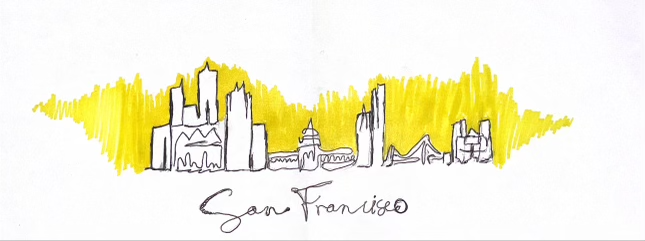
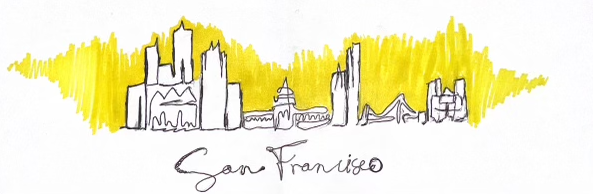
landing page

diff --git a/sf-future/src/Pages/Landing.jsx b/sf-future/src/Pages/Landing.jsx
@@ -1,17 +1,25 @@
 import { Link } from "react-router-dom";
+import skyline from '../assets/SF-skyline.png'
 
 function Landing(){
 
     return(
     <div class = "flex flex-col items-center justify-center h-screen">
-        <h1 className="text-3xl font-bold">
+        <div className="text-5xl font-cursive">
         Looking To The Horizon
-        </h1>
-        <p className="text-lg mt-10">
-        Clouds of worry, glimmers of hope in downtown San Francisco
+        </div>
+        <p className="text-m mt-10">
+          by <a className="hover:text-blue-500" target="_blank" href="https://jerryzhou11.github.io/portfolio/#/">Jerry Zhou</a>,&nbsp;
+          <a className="hover:text-blue-500" target="_blank"href="">Rachel Smith</a>, and&nbsp;
+          <a className="hover:text-blue-500" target="_blank"href="">Maria Jose Arango </a> 
         </p>
+        <p className="text-xl mt-10">
+        From a street vendor to restaurant owner, San Franciscans share thoughts about the future. 
+        </p>
+        <img src={skyline} alt="San Francisco skyline" className="py-10 ">
+        </img>
         <Link to="">
-          <div className="mt-10 transition duration-300 w-48 bg-blue-500 hover:bg-blue-700 text-white font-bold py-2 px-4 rounded">
+          <div className="transition duration-300 w-48 bg-yellow-300 hover:bg-yellow-500 font-bold py-2 px-4 rounded">
             Start Reading
           </div>
         </Link>

diff --git a/sf-future/src/index.css b/sf-future/src/index.css
@@ -1,5 +1,9 @@
+@import url('https://fonts.googleapis.com/css2?family=Cedarville+Cursive&family=Roboto:ital,wght@0,100..900;1,100..900&display=swap');
 @import "tailwindcss";
 
+@theme{
+  --font-cursive: 'Cedarville Cursive', cursive;
+}
 
 :root {
   font-family: Inter, system-ui, Avenir, Helvetica, Arial, sans-serif;
@@ -18,11 +22,8 @@
 
 a {
   font-weight: 500;
-  color: #646cff;
-  text-decoration: inherit;
-}
-a:hover {
-  color: #535bf2;
+  text-decoration: underline;
+  transition: color 0.25s;
 }
 
 body {
